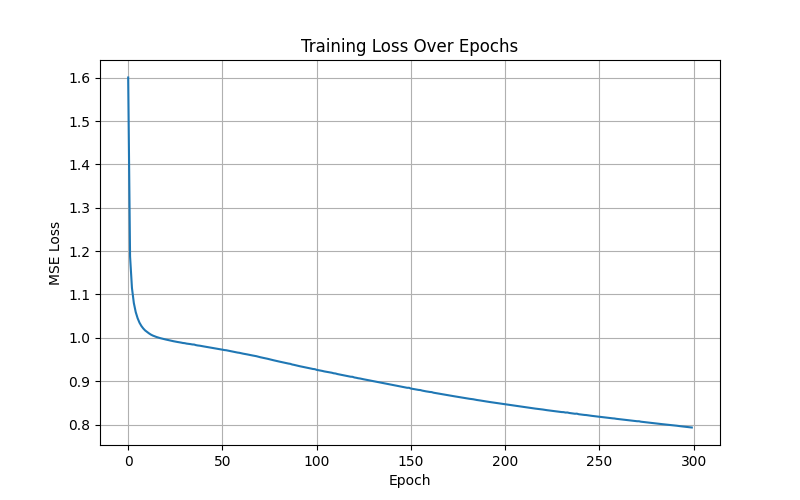
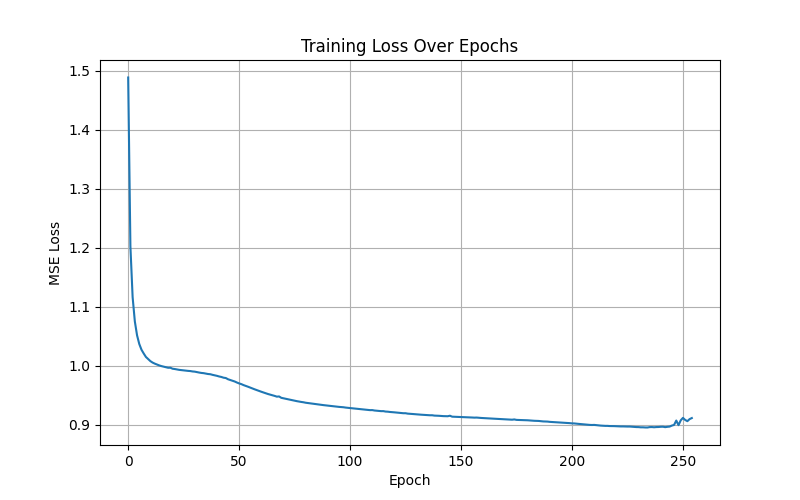
Created one main method, added logging feature, and changed threshold to 97 after experimenting

diff --git a/fraud_detection.py b/fraud_detection.py
@@ -1,8 +1,9 @@
 import pandas as pd
 from sklearn.model_selection import train_test_split
 from sklearn.preprocessing import StandardScaler
+from sklearn.metrics import precision_score, recall_score, f1_score, roc_auc_score, confusion_matrix
 import numpy as np
-
+import matplotlib.pyplot as plt
 
 url = "https://detect-credit-card-fraud.s3.us-east-2.amazonaws.com/creditcard.csv"
 df = pd.read_csv(url)
@@ -54,24 +55,7 @@ def encoder_forward(x, weights, biases):
 
     return A, activations   # A = compressed representation
 
-if __name__ == "__main__":
-
-    # testing
-    input_dim = x_train.shape[1]
-    hidden_dims = [16, 8]
-
-    encoder_weights, encoder_biases = initialize_encoder(input_dim, hidden_dims)
-
-    latent_representation, activations = encoder_forward(
-        x_train,
-        encoder_weights,
-        encoder_biases
-    )
-
-    print("Latent shape:", latent_representation.shape) # (n_samples, 8)
-
 # DECODER 
-
 def initialize_decoder(latent_dim, hidden_dims, output_dim):
     weights = [] 
     biases = []
@@ -128,22 +112,6 @@ def decoder_backward(grad_output, activations, weights):
             grad = grad * relu_derivative(activations[i])
     grad_input = np.dot(grad, weights[0].T)
     return grad_weights, grad_biases, grad_input
-
-# test cases
-input_dim = x_train.shape[1] #30
-latent_dim = 8
-hidden_dims = [16] # mirror of encoder hidden layers in reverse
-
-dec_weights, dec_biases = initialize_decoder(latent_dim, hidden_dims, input_dim)
-reconstructed, dec_activations = decoder_forward(
-    latent_representation,
-    dec_weights,
-    dec_biases
-)
-
-loss = mse_loss(x_train, reconstructed)
-print("Reconstructed shape: ", reconstructed.shape)
-print("Initial MSE loss:", loss)
 
 # ENCODER BACKWARD
 def encoder_backward(grad_input, activations, weights):
@@ -216,71 +184,138 @@ def train_autoencoder(x_train, encoder_weights, encoder_biases, dec_weights, dec
                 break
     return encoder_weights, encoder_biases, dec_weights, dec_biases, losses
 
-# Runs training
-print("\nTraining autoencoder...")
-encoder_weights, encoder_biases, dec_weights, dec_biases, losses = train_autoencoder(
-    x_train, encoder_weights, encoder_biases, dec_weights, dec_biases, epochs=300, learning_rate=0.003, patience=20
-)
+def log_experiment(file_name, params, results):
+    # Count existing experiments
+    try:
+        with open(file_name, "r") as f:
+            lines = f.readlines()
+            exp_count = sum(1 for line in lines if line.startswith("Experiment"))
+    except FileNotFoundError:
+        exp_count = 0
 
-# ANOMALY DETECTION
-print("\nRunning anomaly detection...")
-from sklearn.metrics import precision_score, recall_score, f1_score, roc_auc_score, confusion_matrix
+    exp_number = exp_count + 1
 
-# Gets reconstruction error for the test set (normal transactions)
-latent_test, _ = encoder_forward(x_test, encoder_weights, encoder_biases)
-reconstructed_test, _ = decoder_forward(latent_test, dec_weights, dec_biases)
-test_errors = np.mean((x_test - reconstructed_test) ** 2, axis=1)
+    with open(file_name, "a") as f:
+        f.write(f"\n{'='*40}\n")
+        f.write(f"Experiment {exp_number}\n")
+        f.write("Parameters Chosen:\n")
 
-# Tests ALL transactions (normal + fraud)
-x_all = scaler.transform(x.values)
-latent_all, _ = encoder_forward(x_all, encoder_weights, encoder_biases)
-reconstructed_all, _ = decoder_forward(latent_all, dec_weights, dec_biases)
-all_errors = np.mean((x_all - reconstructed_all) ** 2, axis=1)
+        for key, value in params.items():
+            f.write(f"{key}: {value}\n")
 
-# Threshold tuning analysis
-print("\nThreshold Tuning Analysis:")
-print(f"{'Percentile':<15} {'Threshold':<15} {'Precision':<12} {'Recall':<12} {'F1':<12}")
-print("-" * 65)
+        f.write("\nResults:\n")
 
-for percentile in [90, 93, 95, 97, 99]:
-    thresh = np.percentile(test_errors, percentile)
-    y_pred_thresh = (all_errors > thresh).astype(int)
-    p = precision_score(y, y_pred_thresh, zero_division=0)
-    r = recall_score(y, y_pred_thresh, zero_division=0)
-    f = f1_score(y, y_pred_thresh, zero_division=0)
-    print(f"{percentile:<15} {thresh:<15.6f} {p:<12.4f} {r:<12.4f} {f:<12.4f}")
+        for key, value in results.items():
+            f.write(f"{key}: {value}\n")
 
-# Using 95th percentile as final threshold
-threshold = np.percentile(test_errors, 95)
-print(f"\nFinal Anomaly Threshold (95th percentile): {threshold:.6f}")
+if __name__ == "__main__":
 
-# Flags anything above threshold as fraud
-y_pred = (all_errors > threshold).astype(int)
+    np.random.seed(42)
 
-# EVALUATION
-from sklearn.metrics import precision_score, recall_score, f1_score, roc_auc_score, confusion_matrix
+    # Initialize
+    input_dim = x_train.shape[1]
+    latent_dim = 8
+    encoder_hidden = [16, 8]
+    decoder_hidden = [16]
 
-print("\nEvaluation Results:")
-print(f"Precision: {precision_score(y, y_pred):.4f}")
-print(f"Recall: {recall_score(y, y_pred):.4f}")
-print(f"F1 Score: {f1_score(y, y_pred):.4f}")
-print(f"ROC-AUC: {roc_auc_score(y, all_errors):.4f}")
+    encoder_weights, encoder_biases = initialize_encoder(input_dim, encoder_hidden)
+    dec_weights, dec_biases = initialize_decoder(latent_dim, decoder_hidden, input_dim)
 
-cm = confusion_matrix(y, y_pred)
-print(f"\nConfusion Matrix:")
-print(f"True Negatives  (Normal correctly identified): {cm[0][0]}")
-print(f"False Positives (Normal flagged as fraud):     {cm[0][1]}")
-print(f"False Negatives (Fraud missed):                {cm[1][0]}")
-print(f"True Positives  (Fraud correctly caught):      {cm[1][1]}")
+    # Train
+    print("\nTraining autoencoder...")
+    encoder_weights, encoder_biases, dec_weights, dec_biases, losses = train_autoencoder(
+        x_train,
+        encoder_weights,
+        encoder_biases,
+        dec_weights,
+        dec_biases,
+        epochs=300,
+        learning_rate=0.003,
+        patience=20
+    )
 
-# PLOTS LOSS CURVE
-import matplotlib.pyplot as plt
+    # Anomaly Detection
+    print("\nRunning anomaly detection...")
 
-plt.figure(figsize=(8, 5))
-plt.plot(losses)
-plt.title("Training Loss Over Epochs")
-plt.xlabel("Epoch")
-plt.ylabel("MSE Loss")
-plt.grid(True)
-plt.savefig("loss_curve.png")
-print("\nLoss curve saved as loss_curve.png")
+    latent_test, _ = encoder_forward(x_test, encoder_weights, encoder_biases)
+    reconstructed_test, _ = decoder_forward(latent_test, dec_weights, dec_biases)
+    test_errors = np.mean((x_test - reconstructed_test) ** 2, axis=1)
+
+    x_all = scaler.transform(x)
+    latent_all, _ = encoder_forward(x_all, encoder_weights, encoder_biases)
+    reconstructed_all, _ = decoder_forward(latent_all, dec_weights, dec_biases)
+    all_errors = np.mean((x_all - reconstructed_all) ** 2, axis=1)
+
+    # Threshold tuning analysis
+    print("\nThreshold Tuning Analysis:")
+    print(f"{'Percentile':<15} {'Threshold':<15} {'Precision':<12} {'Recall':<12} {'F1':<12}")
+    print("-" * 65)
+
+    for percentile in [90, 93, 95, 97, 99]:
+        thresh = np.percentile(test_errors, percentile)
+        y_pred_thresh = (all_errors > thresh).astype(int)
+        p = precision_score(y, y_pred_thresh, zero_division=0)
+        r = recall_score(y, y_pred_thresh, zero_division=0)
+        f = f1_score(y, y_pred_thresh, zero_division=0)
+        print(f"{percentile:<15} {thresh:<15.6f} {p:<12.4f} {r:<12.4f} {f:<12.4f}")
+
+    threshold = np.percentile(test_errors, 97)
+    y_pred = (all_errors > threshold).astype(int)
+
+    # Evaluation
+    precision = precision_score(y, y_pred)
+    recall = recall_score(y, y_pred)
+    f1 = f1_score(y, y_pred)
+    roc = roc_auc_score(y, all_errors)
+
+    print("\nEvaluation Results:")
+    print(f"Precision: {precision:.4f}")
+    print(f"Recall: {recall:.4f}")
+    print(f"F1 Score: {f1:.4f}")
+    print(f"ROC-AUC: {roc:.4f}")
+
+    cm = confusion_matrix(y, y_pred)
+
+    print("\nConfusion Matrix:")
+    print(f"True Negatives  (Normal correctly identified): {cm[0][0]}")
+    print(f"False Positives (Normal flagged as fraud):     {cm[0][1]}")
+    print(f"False Negatives (Fraud missed):                {cm[1][0]}")
+    print(f"True Positives  (Fraud correctly caught):      {cm[1][1]}")
+
+    # Logging
+    params = {
+        "Number of Layers": "3 (Encoder + Decoder)",
+        "Neurons": "(30, 16, 8, 16, 30)",
+        "Error Function": "MSE",
+        "Learning Rate": 0.003,
+        "Epochs": 300,
+        "Batch Size": 256,
+        "Train/Test Split": "80:20",
+        "Dataset Size": x.shape[0],
+        "Threshold": f"{threshold:.6f}"
+    }
+
+    results = {
+        "Precision": f"{precision:.4f}",
+        "Recall": f"{recall:.4f}",
+        "F1 Score": f"{f1:.4f}",
+        "ROC-AUC": f"{roc:.4f}",
+        "True Negatives": cm[0][0],
+        "False Positives": cm[0][1],
+        "False Negatives": cm[1][0],
+        "True Positives": cm[1][1]
+    }
+
+    log_experiment("experiment_log.txt", params, results)
+
+    print("\nExperiment log saved.")
+
+    # Plot
+    plt.figure(figsize=(8, 5))
+    plt.plot(losses)
+    plt.title("Training Loss Over Epochs")
+    plt.xlabel("Epoch")
+    plt.ylabel("MSE Loss")
+    plt.grid(True)
+    plt.savefig("loss_curve.png")
+    print("\nLoss curve saved as loss_curve.png")

diff --git a/README.md b/README.md
@@ -1,11 +1,14 @@
-# Project
+# Project Overview
+This project implements a custom neural network autoencoder (built from scratch using NumPy) to perform anomaly detection for credit card fraud detection. The model is trained on normal transactions and detects fraud based on reconstruction error.
 
-## Dataset:
+## Dataset
 The dataset is hosted publicly on AWS S3 and is automatically downloaded at runtime.
-No manual download is required.
+- Source: AWS S3
+- URL: https://detect-credit-card-fraud.s3.amazonaws.com/creditcard.csv
 
-## URL:
-https://detect-credit-card-fraud.s3.amazonaws.com/creditcard.csv
+## Requirements
+Install dependencies before running:
+pip install numpy pandas scikit-learn matplotlib
 
 ## To Run:
-python3 encoder.py
+python3 fraud_detection.py
